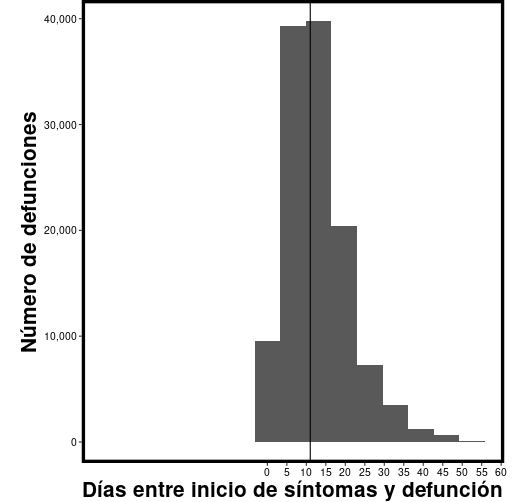
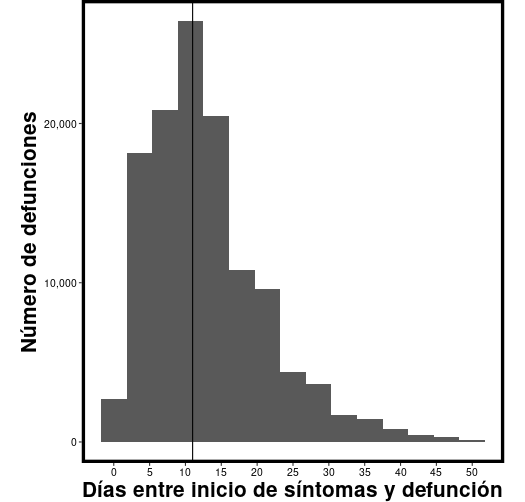
Corrigiendo tiempo entre síntomas y fallecimiento

diff --git a/content/clinicos/tiempo_muerte.md b/content/clinicos/tiempo_muerte.md
@@ -3,7 +3,7 @@ title: ""
 name: "tiempo_muerte"
 draft: false
 descripcion: '<p>En México, el número de días entre el incio de
-síntomas de COVID-19 y el fallecimiento tiene una mediana de 9 días.
+síntomas de COVID-19 y el fallecimiento tiene una mediana de 11 días.
 Este número es similar la mediana de 10 días reportada en
 <a href="https://www.epicentro.iss.it/en/coronavirus/bollettino/Report-COVID-2019_2_april_2020.pdf" target="_blank">un estudio sobre Italia</a>,
 pero menor que la mediana de 14 días reportada entre
